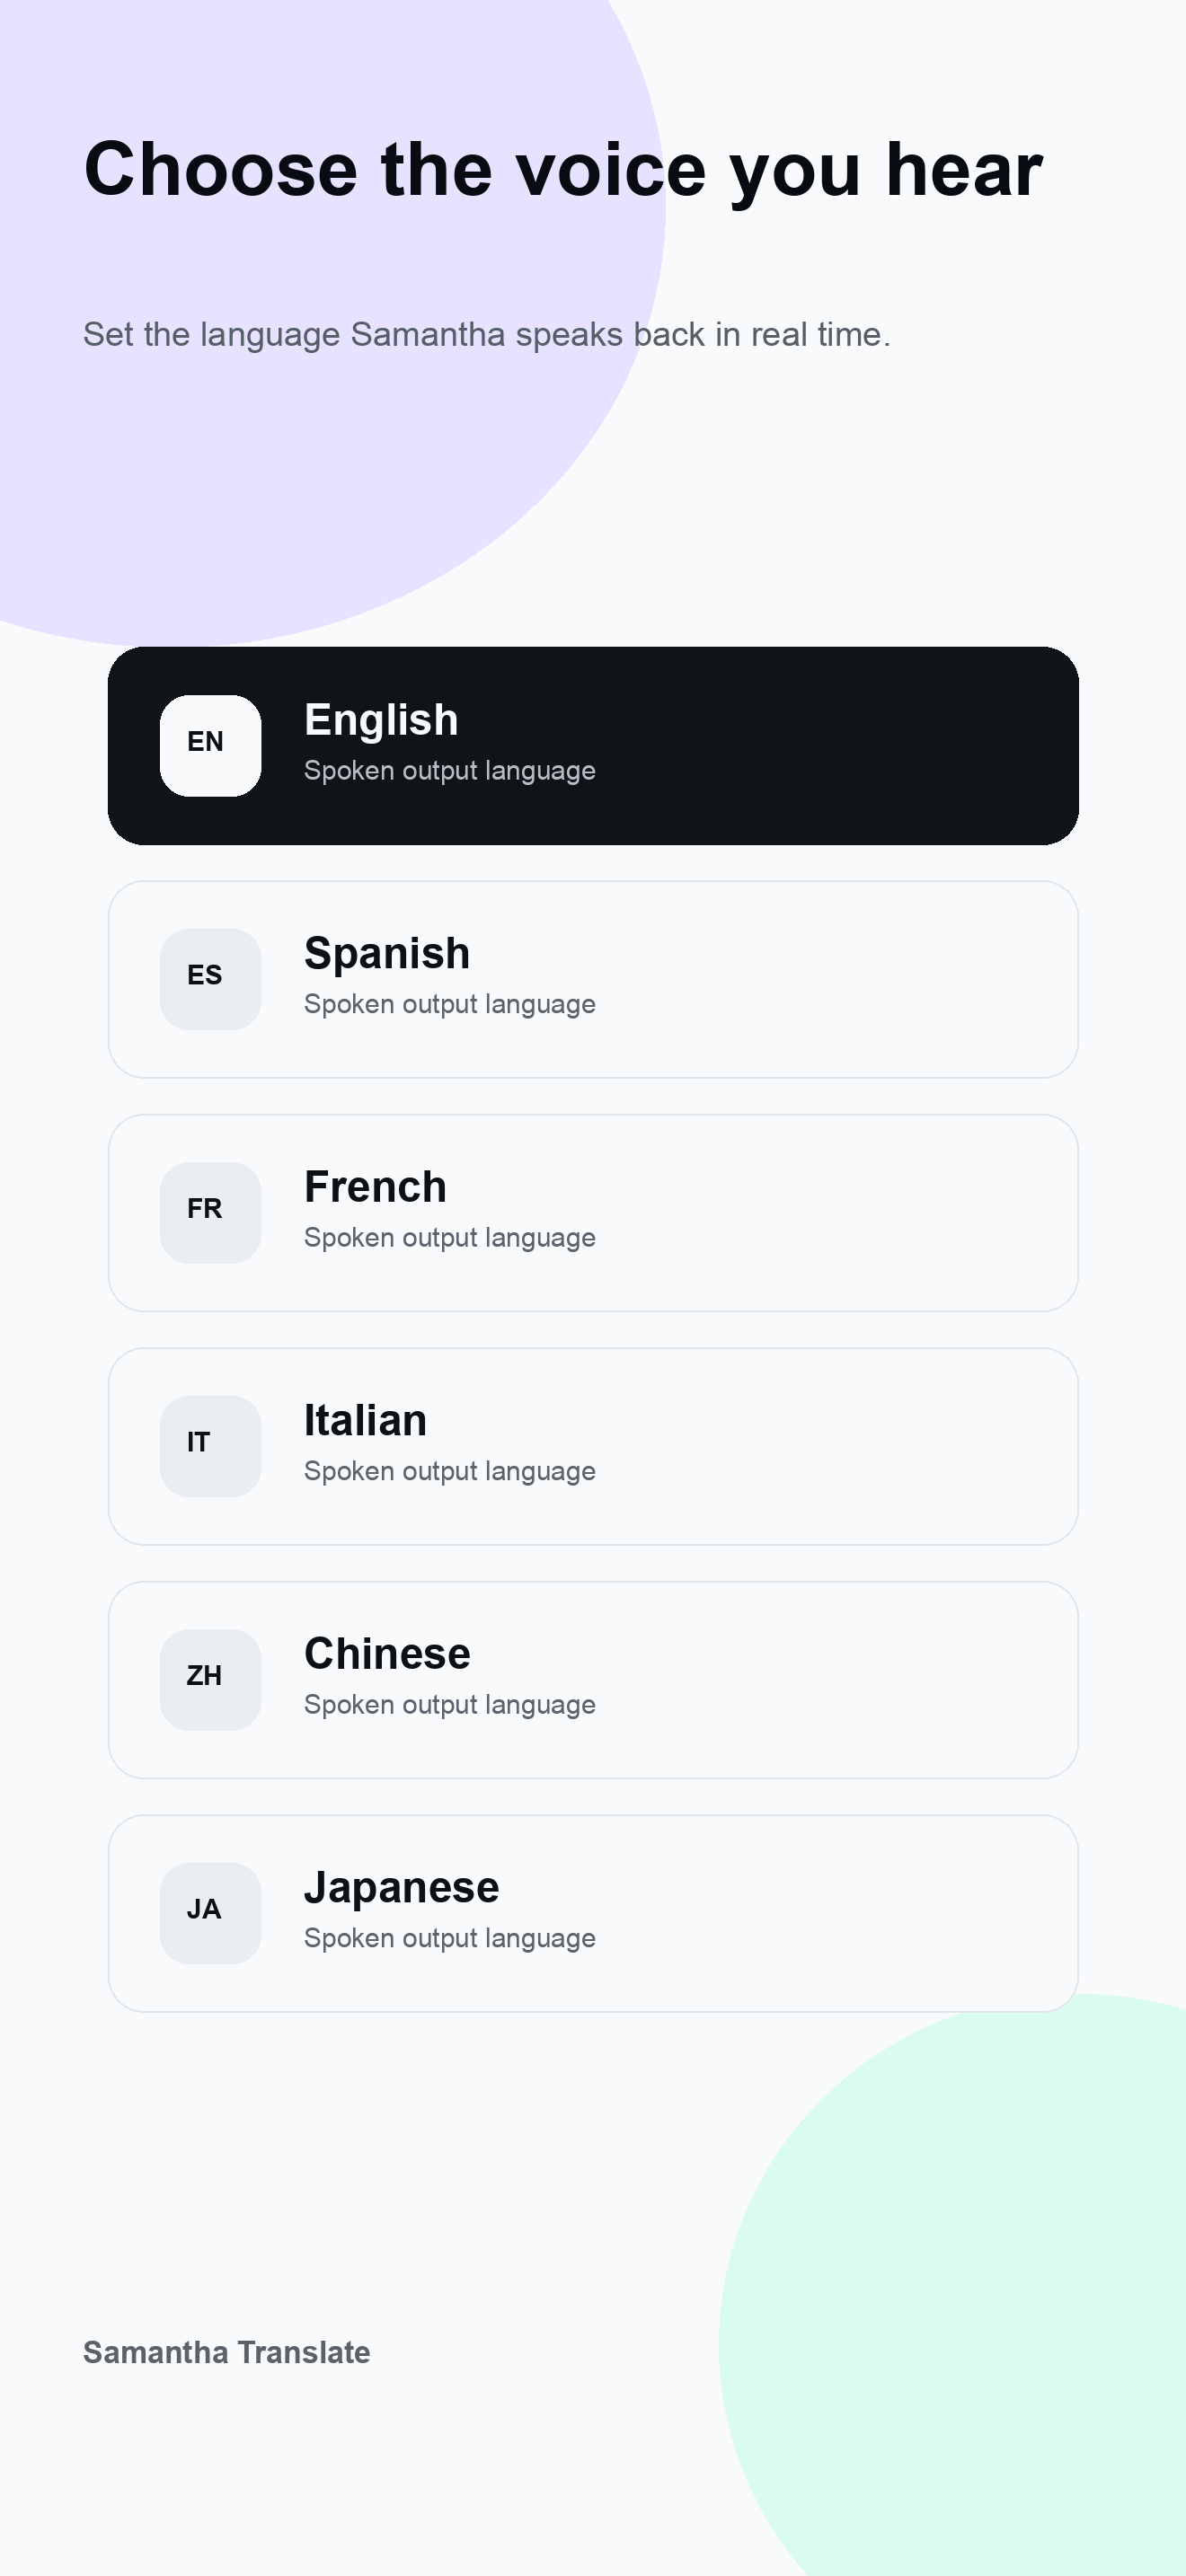
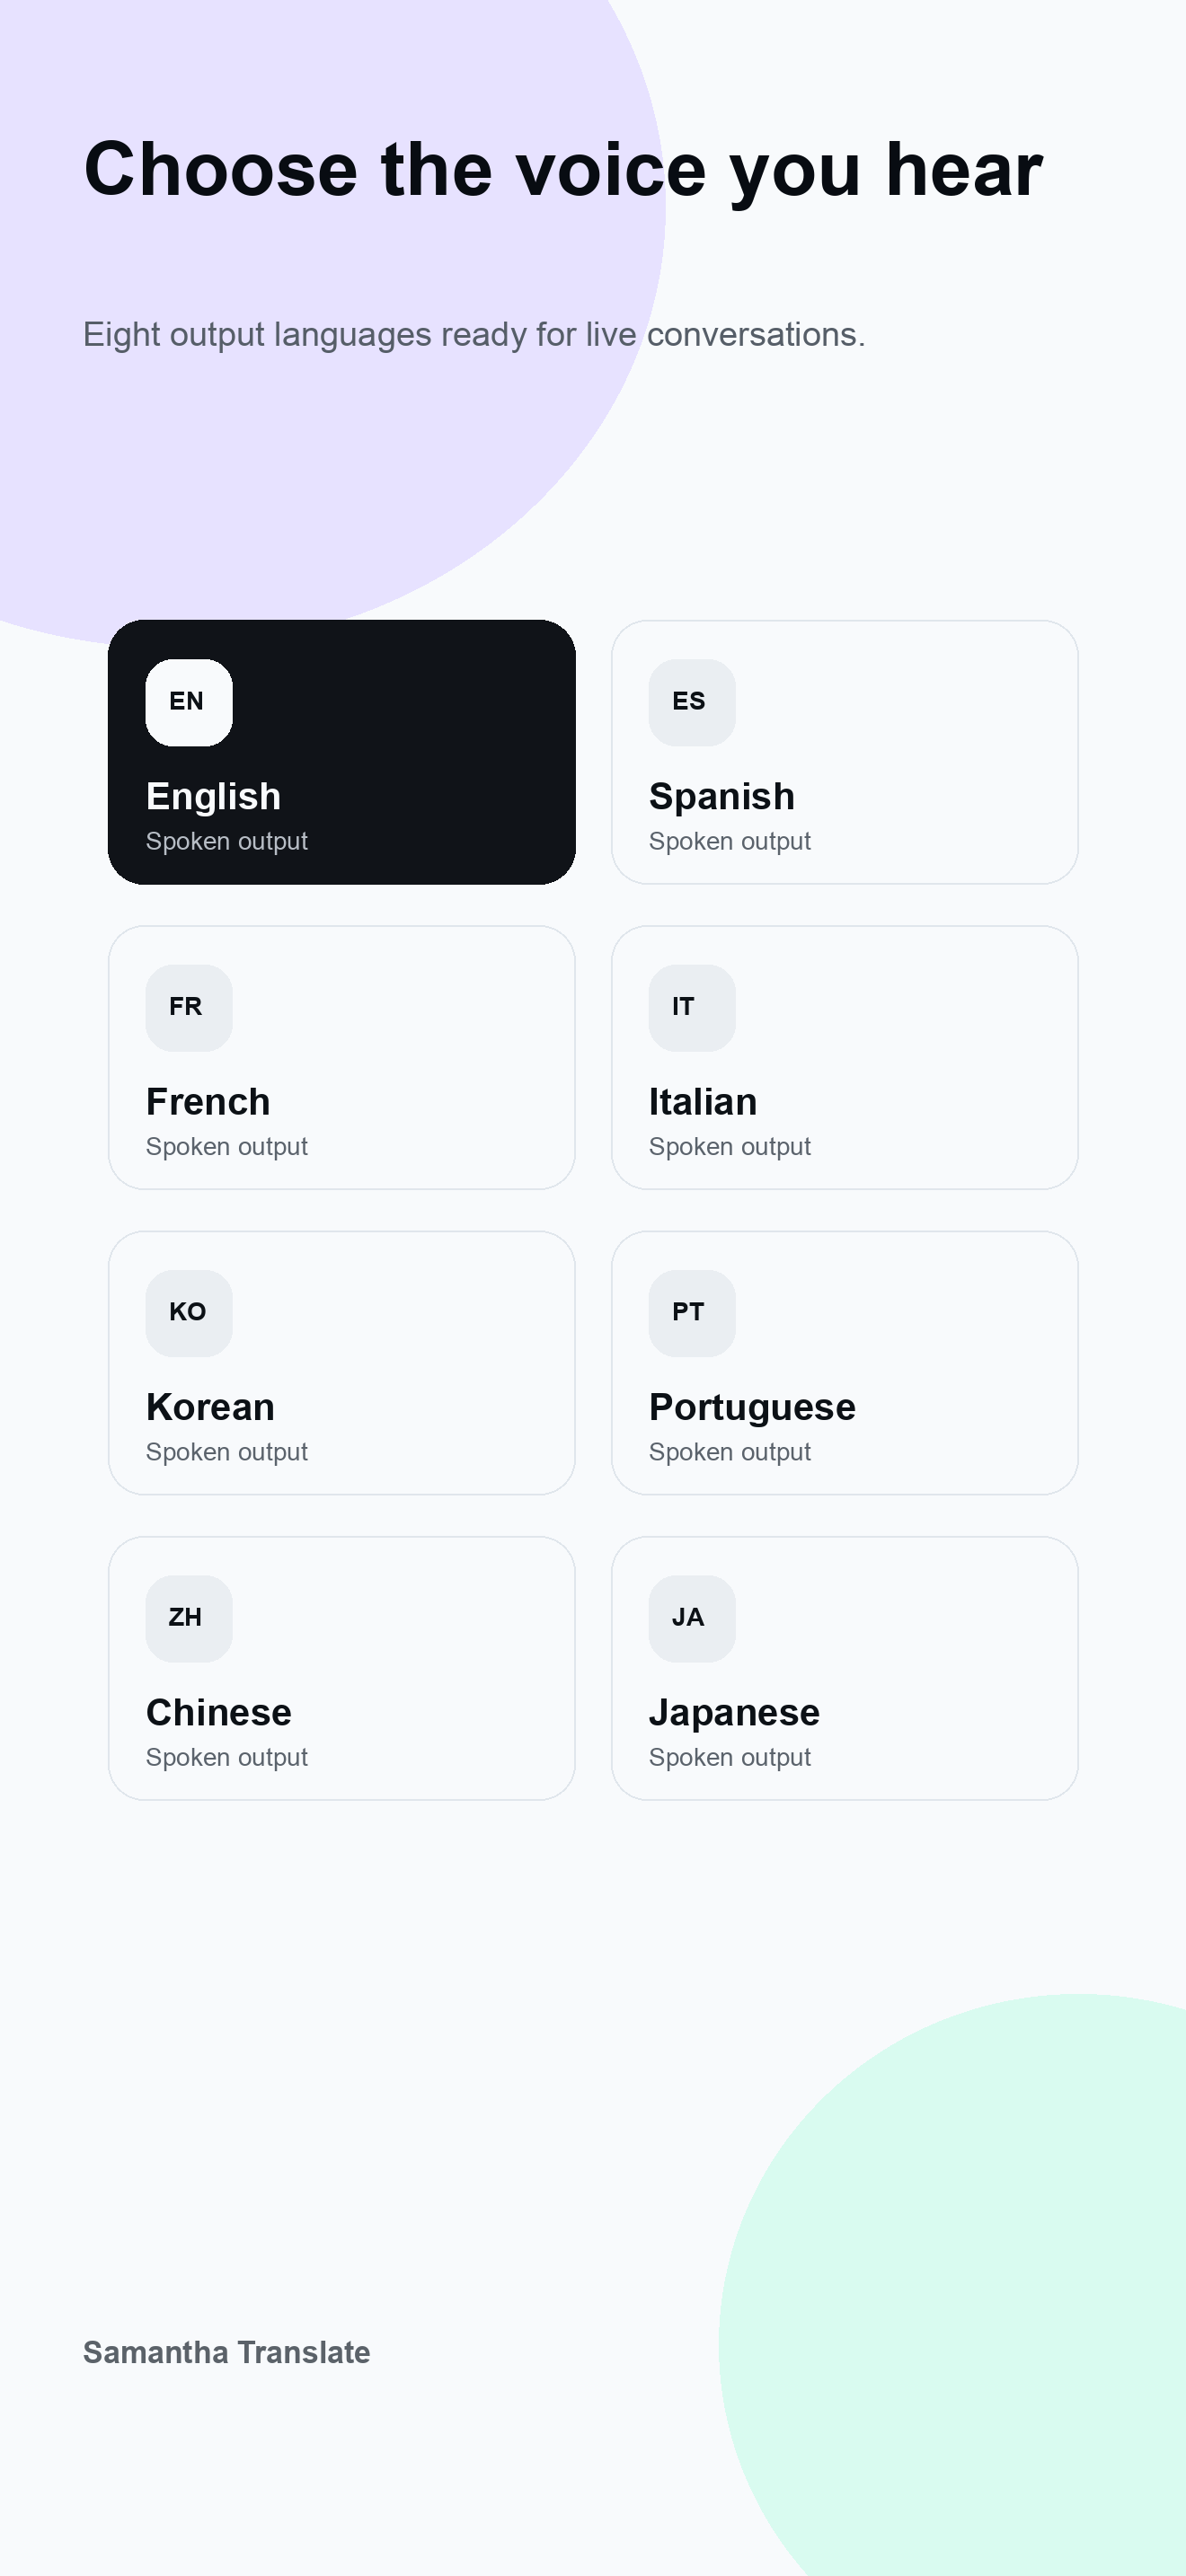
Add Korean and Portuguese localization

diff --git a/SamanthaTranslate/DesignSystem/AppTheme.swift b/SamanthaTranslate/DesignSystem/AppTheme.swift
@@ -32,6 +32,8 @@ enum AppLanguage: String, CaseIterable, Identifiable {
     case spanish = "es"
     case french = "fr"
     case italian = "it"
+    case korean = "ko"
+    case portuguese = "pt-BR"
     case chinese = "zh-Hans"
     case japanese = "ja"
 
@@ -43,6 +45,8 @@ enum AppLanguage: String, CaseIterable, Identifiable {
         case .spanish: "language.spanish"
         case .french: "language.french"
         case .italian: "language.italian"
+        case .korean: "language.korean"
+        case .portuguese: "language.portuguese"
         case .chinese: "language.chinese"
         case .japanese: "language.japanese"
         }
@@ -54,6 +58,8 @@ enum AppLanguage: String, CaseIterable, Identifiable {
         case .spanish: "Spanish"
         case .french: "French"
         case .italian: "Italian"
+        case .korean: "Korean"
+        case .portuguese: "Portuguese"
         case .chinese: "Simplified Chinese"
         case .japanese: "Japanese"
         }
@@ -65,6 +71,8 @@ enum AppLanguage: String, CaseIterable, Identifiable {
         case .spanish: "es"
         case .french: "fr"
         case .italian: "it"
+        case .korean: "ko"
+        case .portuguese: "pt"
         case .chinese: "zh"
         case .japanese: "ja"
         }

diff --git a/web/index.html b/web/index.html
@@ -109,6 +109,14 @@
             <h3>Italiano</h3>
             <p>Samantha Translate ascolta la voce, rileva automaticamente la lingua e riproduce la traduzione nella lingua scelta dall’utente. L’app include 3 giorni di prova gratuita, poi si rinnova ogni settimana a 4,99 USD tramite Apple.</p>
           </article>
+          <article lang="ko">
+            <h3>한국어</h3>
+            <p>Samantha Translate는 음성을 듣고 언어를 자동으로 감지한 뒤 사용자가 선택한 출력 언어로 번역을 음성 재생합니다. 앱은 3일 무료 체험을 제공하며, 이후 Apple을 통해 매주 4.99달러로 갱신됩니다.</p>
+          </article>
+          <article lang="pt-BR">
+            <h3>Português</h3>
+            <p>Samantha Translate ouve a fala, detecta automaticamente o idioma e reproduz a tradução no idioma escolhido pelo usuário. O app inclui 3 dias de teste grátis e depois renova semanalmente por US$4,99 via Apple.</p>
+          </article>
           <article lang="zh-Hans">
             <h3>简体中文</h3>
             <p>Samantha Translate 会聆听语音、自动识别语言，并用用户选择的输出语言朗读译文。应用提供 3 天免费试用，之后通过 Apple 按每周 4.99 美元自动续订。</p>

diff --git a/scripts/generate_screenshots.py b/scripts/generate_screenshots.py
@@ -230,27 +230,33 @@ def screen_05():
     draw.ellipse((-360, -260, 740, 720), fill=(231, 226, 255))
     draw.ellipse((800, 2220, 1600, 3000), fill=(217, 251, 240))
     text_lines(draw, (92, 140), "Choose the voice you hear", 84, (8, 12, 18), "bold", 1080, 14)
-    text_lines(draw, (92, 350), "Set the language Samantha speaks back in real time.", 38, (86, 94, 104), "regular", 1040, 8)
+    text_lines(draw, (92, 350), "Eight output languages ready for live conversations.", 38, (86, 94, 104), "regular", 1040, 8)
     languages = [
         ("English", "EN", True),
         ("Spanish", "ES", False),
         ("French", "FR", False),
         ("Italian", "IT", False),
+        ("Korean", "KO", False),
+        ("Portuguese", "PT", False),
         ("Chinese", "ZH", False),
         ("Japanese", "JA", False),
     ]
-    y = 720
-    for name, code, active in languages:
+    tile_w = 520
+    tile_h = 294
+    x_positions = [120, 680]
+    y_positions = [690, 1030, 1370, 1710]
+    for index, (name, code, active) in enumerate(languages):
+        x = x_positions[index % 2]
+        y = y_positions[index // 2]
         fill = (16, 19, 24) if active else WHITE
         stroke = (16, 19, 24) if active else (224, 230, 236)
         label = WHITE if active else (12, 17, 22)
         sub = (183, 189, 197) if active else (91, 99, 108)
-        rounded(draw, (120, y, 1200, y + 220), 40, fill, stroke, 2)
-        rounded(draw, (178, y + 54, 290, y + 166), 32, WHITE if active else (234, 238, 242))
-        draw.text((208, y + 88), code, font=font(30, "bold"), fill=(12, 17, 22))
-        draw.text((338, y + 54), name, font=font(48, "bold"), fill=label)
-        draw.text((338, y + 120), "Spoken output language", font=font(30), fill=sub)
-        y += 260
+        rounded(draw, (x, y, x + tile_w, y + tile_h), 40, fill, stroke, 2)
+        rounded(draw, (x + 42, y + 44, x + 138, y + 140), 30, WHITE if active else (234, 238, 242))
+        draw.text((x + 68, y + 74), code, font=font(28, "bold"), fill=(12, 17, 22))
+        draw.text((x + 42, y + 172), name, font=font(42, "bold"), fill=label)
+        draw.text((x + 42, y + 230), "Spoken output", font=font(28), fill=sub)
     draw.text((92, 2600), "Samantha Translate", font=font(34, "bold"), fill=(91, 98, 105))
     return img
 

diff --git a/AppStore/metadata/ko-KR.md b/AppStore/metadata/ko-KR.md
@@ -1,0 +1,28 @@
+# Samantha Translate
+
+부제: 실시간 음성 번역기
+
+홍보 문구:
+외국어를 듣고 내가 선택한 언어로 말해 주는 번역을 받아보세요.
+
+설명:
+Samantha Translate는 대화, 여행, 면접, 일상 청취를 위한 간단하고 프리미엄한 음성 번역 앱입니다.
+
+앱을 열고 출력 언어를 선택한 뒤 듣기를 시작하면 Samantha가 실시간으로 번역을 음성으로 재생합니다. 앱은 원본 언어를 자동으로 감지하므로 대화 전마다 언어 조합을 설정할 필요가 없습니다.
+
+개인정보 보호는 명확합니다. Samantha Translate는 오디오, 전사 내용 또는 번역 기록을 저장하지 않습니다. 오디오는 번역 제공을 위해 실시간으로 처리됩니다.
+
+구독:
+신규 구독자는 3일 무료 체험으로 시작할 수 있습니다. 체험 후 Samantha Translate는 갱신 24시간 전까지 취소하지 않는 한 매주 US$4.99로 자동 갱신됩니다. Apple 계정 설정에서 구독을 관리하거나 취소할 수 있습니다.
+
+키워드:
+번역기,음성,통역,언어,여행,대화,오디오,스페인어,영어
+
+지원 URL:
+https://samantha-translate-mitre88.vercel.app/#support
+
+개인정보 처리방침 URL:
+https://samantha-translate-mitre88.vercel.app/#privacy
+
+이용 약관:
+https://www.apple.com/legal/internet-services/itunes/dev/stdeula/

diff --git a/AppStore/metadata/pt-BR.md b/AppStore/metadata/pt-BR.md
@@ -1,0 +1,28 @@
+# Samantha Translate
+
+Subtítulo: Tradutor de voz em tempo real
+
+Texto promocional:
+Ouça outro idioma e receba a tradução falada no seu.
+
+Descrição:
+Samantha Translate é um tradutor de voz simples e premium para conversas, viagens, entrevistas e escuta diária.
+
+Abra o app, escolha seu idioma de saída, comece a ouvir e Samantha fala a tradução em tempo real. O app detecta automaticamente o idioma de origem, então você não precisa configurar pares de idiomas antes de conversar.
+
+A privacidade é clara: Samantha Translate não salva áudio, transcrições nem histórico de tradução. O áudio é processado ao vivo para fornecer a tradução.
+
+Assinatura:
+Novos assinantes podem começar com 3 dias de teste grátis. Depois do teste, Samantha Translate renova semanalmente por US$4,99, a menos que seja cancelado pelo menos 24 horas antes da renovação. Você pode gerenciar ou cancelar a assinatura nas configurações da sua conta Apple.
+
+Palavras-chave:
+tradutor,voz,tradução,idioma,viagem,intérprete,áudio,conversa,fala
+
+URL de suporte:
+https://samantha-translate-mitre88.vercel.app/#support
+
+URL de privacidade:
+https://samantha-translate-mitre88.vercel.app/#privacy
+
+Termos de uso:
+https://www.apple.com/legal/internet-services/itunes/dev/stdeula/

diff --git a/README.md b/README.md
@@ -8,7 +8,7 @@ Premium iOS voice translator with a minimal SwiftUI interface, StoreKit subscrip
 - Bundle ID: `com.alexmitre.samanthatranslate`
 - Product ID: `samantha_translate_weekly`
 - Trial: 3 days free, then US$4.99/week
-- Supported UI languages: English, Spanish, French, Italian, Simplified Chinese, Japanese
+- Supported UI languages: English, Spanish, French, Italian, Korean, Portuguese, Simplified Chinese, Japanese
 - Data policy: no stored audio, transcripts, or translation history
 
 ## Structure